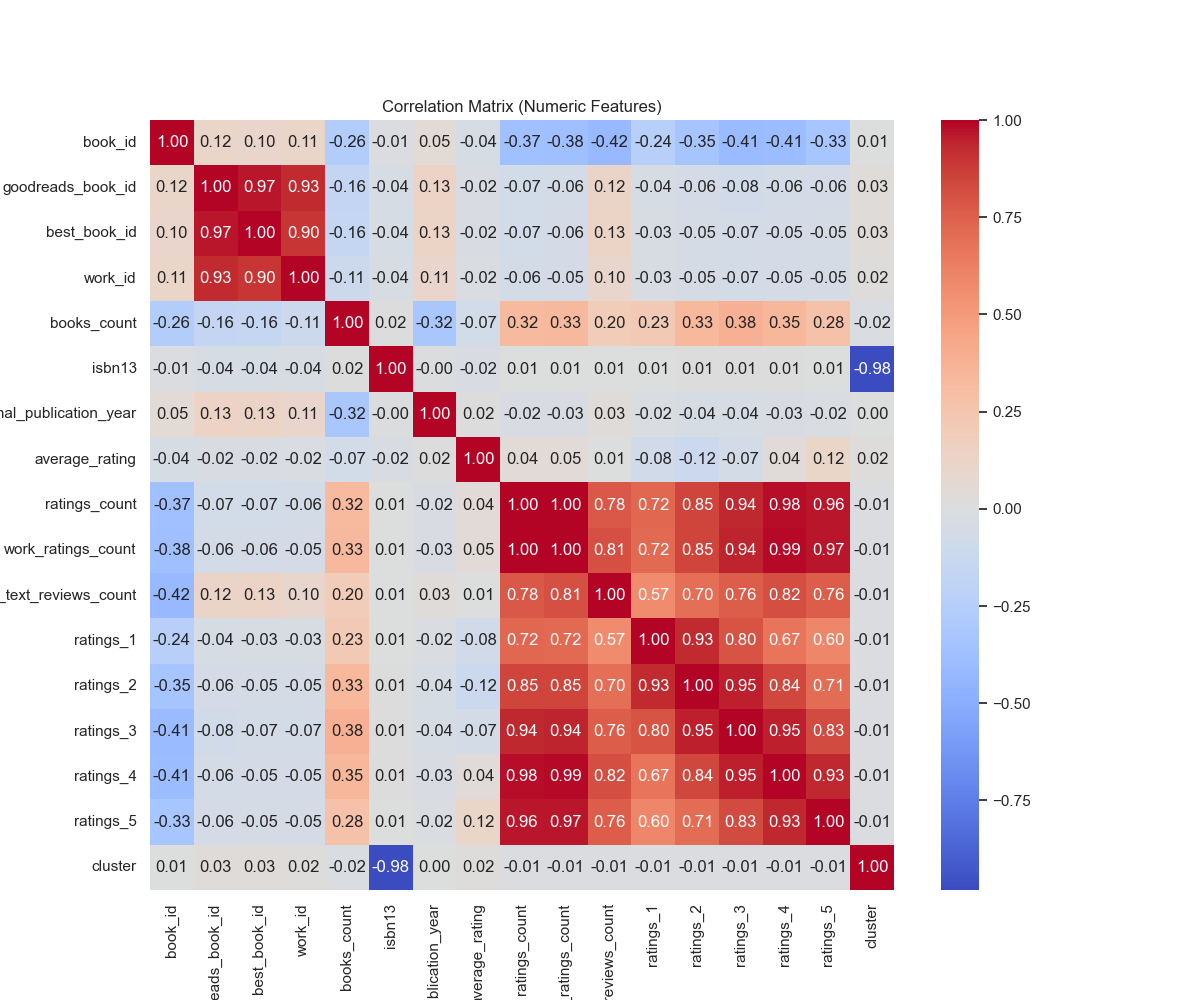
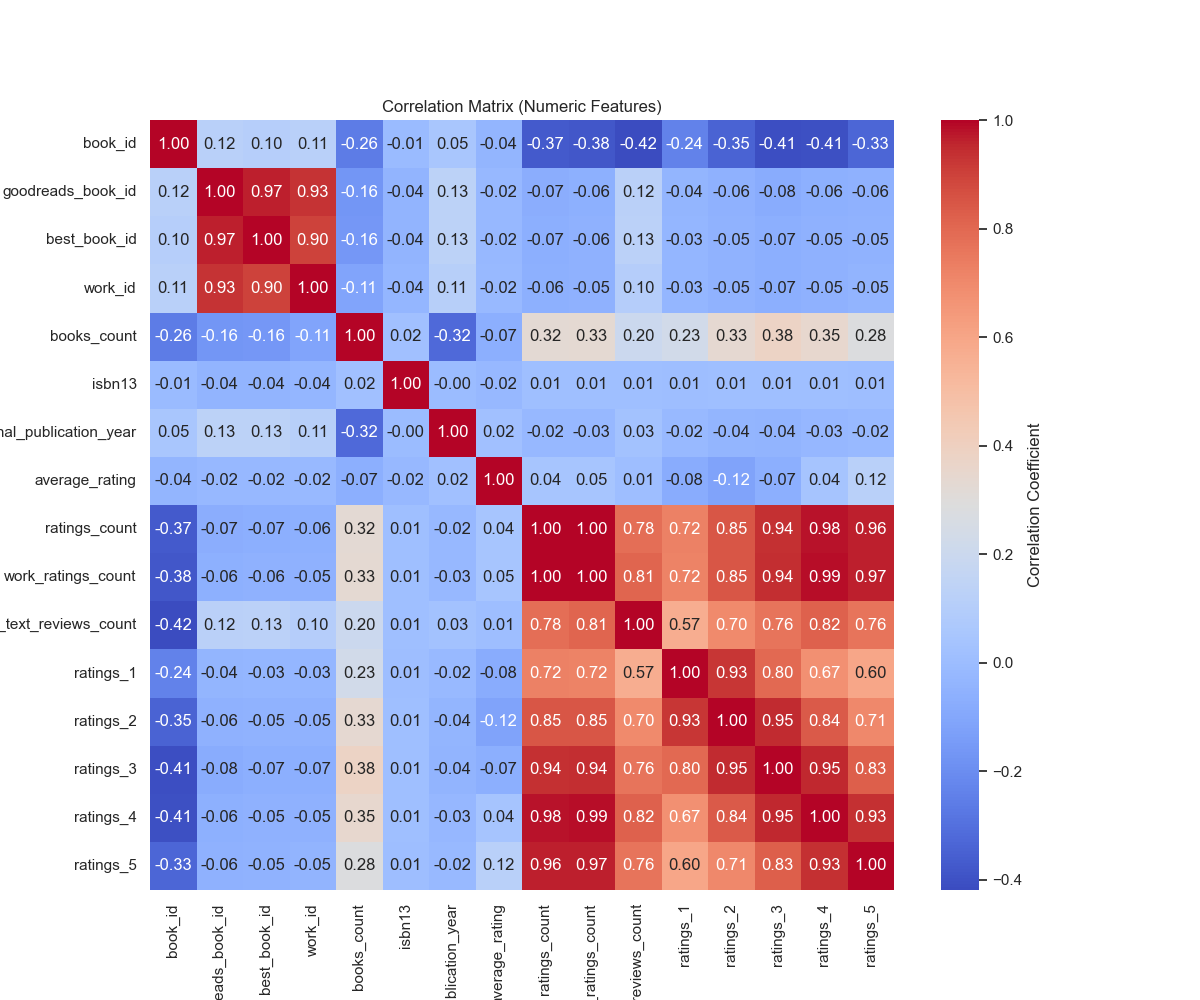
updated on 16Dec

diff --git a/autolysis.py b/autolysis.py
@@ -25,6 +25,8 @@ import seaborn as sns
 import requests
 import json
 from sklearn.impute import SimpleImputer
+from sklearn.decomposition import PCA
+from sklearn.preprocessing import StandardScaler
 from sklearn.cluster import KMeans
 from scipy.stats import zscore
 
@@ -64,15 +66,20 @@ def analyze_data(file_path):
     dtypes = data.dtypes
     
     # Step 4: Correlation (only numeric columns)
-    correlation = None
-    numerical_data = data.select_dtypes(include=["number"])  # Only numeric columns for correlation
-    if not numerical_data.empty:
-        correlation = numerical_data.corr()
+    numerical_data = data.select_dtypes(include=["number"])
+    correlation = numerical_data.corr() if not numerical_data.empty else None
 
     # Step 5: Outlier Detection (using Z-score for numerical columns)
+    # outliers = {}
+    # z_scores = numerical_data.apply(zscore)
+    # outliers = (z_scores.abs() > 3).sum(axis=0)  # Flag values with Z-score > 3
     outliers = {}
-    z_scores = numerical_data.apply(zscore)
-    outliers = (z_scores.abs() > 3).sum(axis=0)  # Flag values with Z-score > 3
+    for col in numerical_data.columns:
+        q1 = numerical_data[col].quantile(0.25)
+        q3 = numerical_data[col].quantile(0.75)
+        iqr = q3 - q1
+        outliers[col] = numerical_data[(numerical_data[col] < q1 - 1.5 * iqr) | 
+                                       (numerical_data[col] > q3 + 1.5 * iqr)].shape[0]
 
     # Step 6: Handle missing values
     numeric_cols = data.select_dtypes(include=["number"]).columns
@@ -86,16 +93,39 @@ def analyze_data(file_path):
     imputer_non_numeric = SimpleImputer(strategy='most_frequent')
     data[non_numeric_cols] = imputer_non_numeric.fit_transform(data[non_numeric_cols])
     
+     # Ensure no NaN values remain
+    numerical_data = data.select_dtypes(include=["number"]).fillna(0)
+    
+    # Step 7: PCA for Feature Importance
+    scaler = StandardScaler()
+    numerical_scaled = scaler.fit_transform(numerical_data)
+    
+    # Determine the maximum allowable n_components
+    max_components = min(numerical_scaled.shape[0], numerical_scaled.shape[1])
+    n_components = min(5, max_components)  # Use 5 or the maximum allowable components
+
+    if n_components > 0:
+        pca = PCA(n_components=n_components, random_state=42)
+        pca.fit(numerical_scaled)
+        pca_explained = dict(zip(numerical_data.columns, pca.components_[0]))
+    else:
+        pca_explained = {}
+    
+    # pca = PCA(n_components=5, random_state=42)
+    # pca.fit(numerical_scaled)
+    # pca_explained = dict(zip(numerical_data.columns, pca.components_[0]))
+    
+    
     # Step 7: Cluster Analysis (using KMeans for numeric data)
-    cluster_info = {}
-    if not numerical_data.empty:
-        imputer_kmeans = SimpleImputer(strategy='mean')
-        numerical_data_imputed = imputer_kmeans.fit_transform(numerical_data)
+    # cluster_info = {}
+    # if not numerical_data.empty:
+    #     imputer_kmeans = SimpleImputer(strategy='mean')
+    #     numerical_data_imputed = imputer_kmeans.fit_transform(numerical_data)
         
-        # Perform KMeans clustering after imputation
-        kmeans = KMeans(n_clusters=3, random_state=42)
-        data['cluster'] = kmeans.fit_predict(numerical_data_imputed)
-        cluster_info = data['cluster'].value_counts()
+    #     # Perform KMeans clustering after imputation
+    #     kmeans = KMeans(n_clusters=3, random_state=42)
+    #     data['cluster'] = kmeans.fit_predict(numerical_data_imputed)
+    #     cluster_info = data['cluster'].value_counts()
 
     # Prepare data for LLM analysis
     context = {
@@ -103,9 +133,11 @@ def analyze_data(file_path):
         "dtypes": {col: str(dtype) for col, dtype in dtypes.items()},
         "missing_values": missing_values.to_dict(),
         "summary_stats": summary.to_dict(),
-        "outliers": outliers.to_dict(),
+        "outliers": outliers,
+        # "outliers": outliers.to_dict(),
         "correlation": correlation.to_dict() if correlation is not None else None,
-        "cluster_info": cluster_info.to_dict(),
+        #"cluster_info": cluster_info.to_dict(),
+        "pca_importance": pca_explained,
     }
     return data, context
 
@@ -260,28 +292,47 @@ def generate_visualizations(data, output_dir):
     plt.figure(figsize=(12, 10))
     numeric_data = data.select_dtypes(include=["number"])  # Only numeric columns
     correlation_matrix = numeric_data.corr()
-    sns.heatmap(correlation_matrix, annot=True, cmap="coolwarm", fmt=".2f")
+    sns.heatmap(correlation_matrix, annot=True, cmap="coolwarm", fmt=".2f", cbar_kws={'label': 'Correlation Coefficient'})
     plt.title("Correlation Matrix (Numeric Features)")
     plt.savefig(os.path.join(output_dir, "correlation_matrix.png"))
     plt.close()
 
-    # Create Combined Histograms for Top 10 Features in Subplots
-    fig, axes = plt.subplots(2, 5, figsize=(20, 10))  # 2 rows, 5 columns
-    axes = axes.ravel()  # Flatten the 2D axes array for easier indexing
-
-    for i, col in enumerate(top_10_features):
-        axes[i].hist(important_data[col].dropna(), bins=20, alpha=0.7)
-        axes[i].set_title(f"Histogram of {col}")
-        axes[i].set_xlabel(col)
-        axes[i].set_ylabel('Frequency')
-
-    # Hide the last subplot if there are less than 10 features
-    for j in range(i + 1, 10):
-        axes[j].axis('off')
-
+# Combined Boxplot for Top 10 Features
+    plt.figure(figsize=(16, 8))  # Adjust size to fit all features
+    sns.boxplot(data=important_data[top_10_features], palette="Set2")
+    plt.title("Boxplots of Top 10 Important Features")
+    plt.xticks(rotation=45)  # Rotate feature names for better visibility
+    plt.ylabel("Value")
+    plt.xlabel("Features")
     plt.tight_layout()
-    plt.savefig(os.path.join(output_dir, "top_10_features_histogram.png"))
+    plt.savefig(os.path.join(output_dir, "boxplots_top_10_features.png"))
     plt.close()
+    # # Boxplots for Top 10 Features
+    # for col in top_10_features:
+    #     plt.figure(figsize=(8, 6))
+    #     sns.boxplot(data=important_data[col], palette="Set2")
+    #     plt.title(f"Boxplot of {col}")
+    #     plt.ylabel("Value")
+    #     plt.savefig(os.path.join(output_dir, f"boxplot_{col}.png"))
+    #     plt.close()
+
+    # Create Combined Histograms for Top 10 Features in Subplots
+    # fig, axes = plt.subplots(2, 5, figsize=(20, 10))  # 2 rows, 5 columns
+    # axes = axes.ravel()  # Flatten the 2D axes array for easier indexing
+
+    # for i, col in enumerate(top_10_features):
+    #     axes[i].boxplot(important_data[col].dropna(), bins=20, alpha=0.7)
+    #     axes[i].set_title(f"Histogram of {col}")
+    #     axes[i].set_xlabel(col)
+    #     axes[i].set_ylabel('Frequency')
+
+    # # Hide the last subplot if there are less than 10 features
+    # for j in range(i + 1, 10):
+    #     axes[j].axis('off')
+
+    # plt.tight_layout()
+    # plt.savefig(os.path.join(output_dir, "top_10_features_histogram.png"))
+    # plt.close()
 
 # # Compress the image
 #     compress_image(temp_image_path, compressed_image_path)
@@ -297,10 +348,21 @@ def write_markdown_report(output_dir, analysis_summary, visualizations):
     """Write a markdown report summarizing the analysis."""
     with open(os.path.join(output_dir, "README.md"), "w") as f:
         f.write("# Automated Data Analysis Report\n\n")
-        f.write(analysis_summary)
-        f.write("\n\n## Visualizations\n")
+        f.write("## Summary\n")
+        f.write("This report contains the findings from the analysis of the dataset.\n\n")
+        f.write("### Key Insights\n")
+        f.write(f"{analysis_summary}\n\n")
+        f.write("## Visualizations\n\n")
         for viz in visualizations:
             f.write(f"![{viz}]({viz})\n")
+        f.write("\n\n**Note**: The visualizations provide an in-depth understanding of relationships and trends in the data.")
+        
+               
+        # f.write("# Automated Data Analysis Report\n\n")
+        # f.write(analysis_summary)
+        # f.write("\n\n## Visualizations\n")
+        # for viz in visualizations:
+        #     f.write(f"![{viz}]({viz})\n")
 
 def agentic_workflow(context, initial_task, output_dir):
     """Agentic workflow where the LLM decides the next step."""
@@ -309,12 +371,21 @@ def agentic_workflow(context, initial_task, output_dir):
        # print(f"🔍 Task {step + 1}: {current_task}")
         result = interact_with_aiproxy(context, current_task)
         
-        if "generate visualization" in result.lower():
+        if "visualize" in result.lower():
             generate_visualizations(context, output_dir)
-        elif "stop" in result.lower() or "complete" in result.lower():
-            break  
+        elif "explore further" in result.lower():
+            context["exploration"] = "additional statistical techniques applied."
+        elif "stop" in result.lower():
+            break
         else:
-            current_task = result  
+            current_task = result
+        
+        # if "generate visualization" in result.lower():
+        #     generate_visualizations(context, output_dir)
+        # elif "stop" in result.lower() or "complete" in result.lower():
+        #     break  
+        # else:
+        #     current_task = result  
 
 def main():
     parser = argparse.ArgumentParser(description="Automated data analysis with AI Proxy support.")
